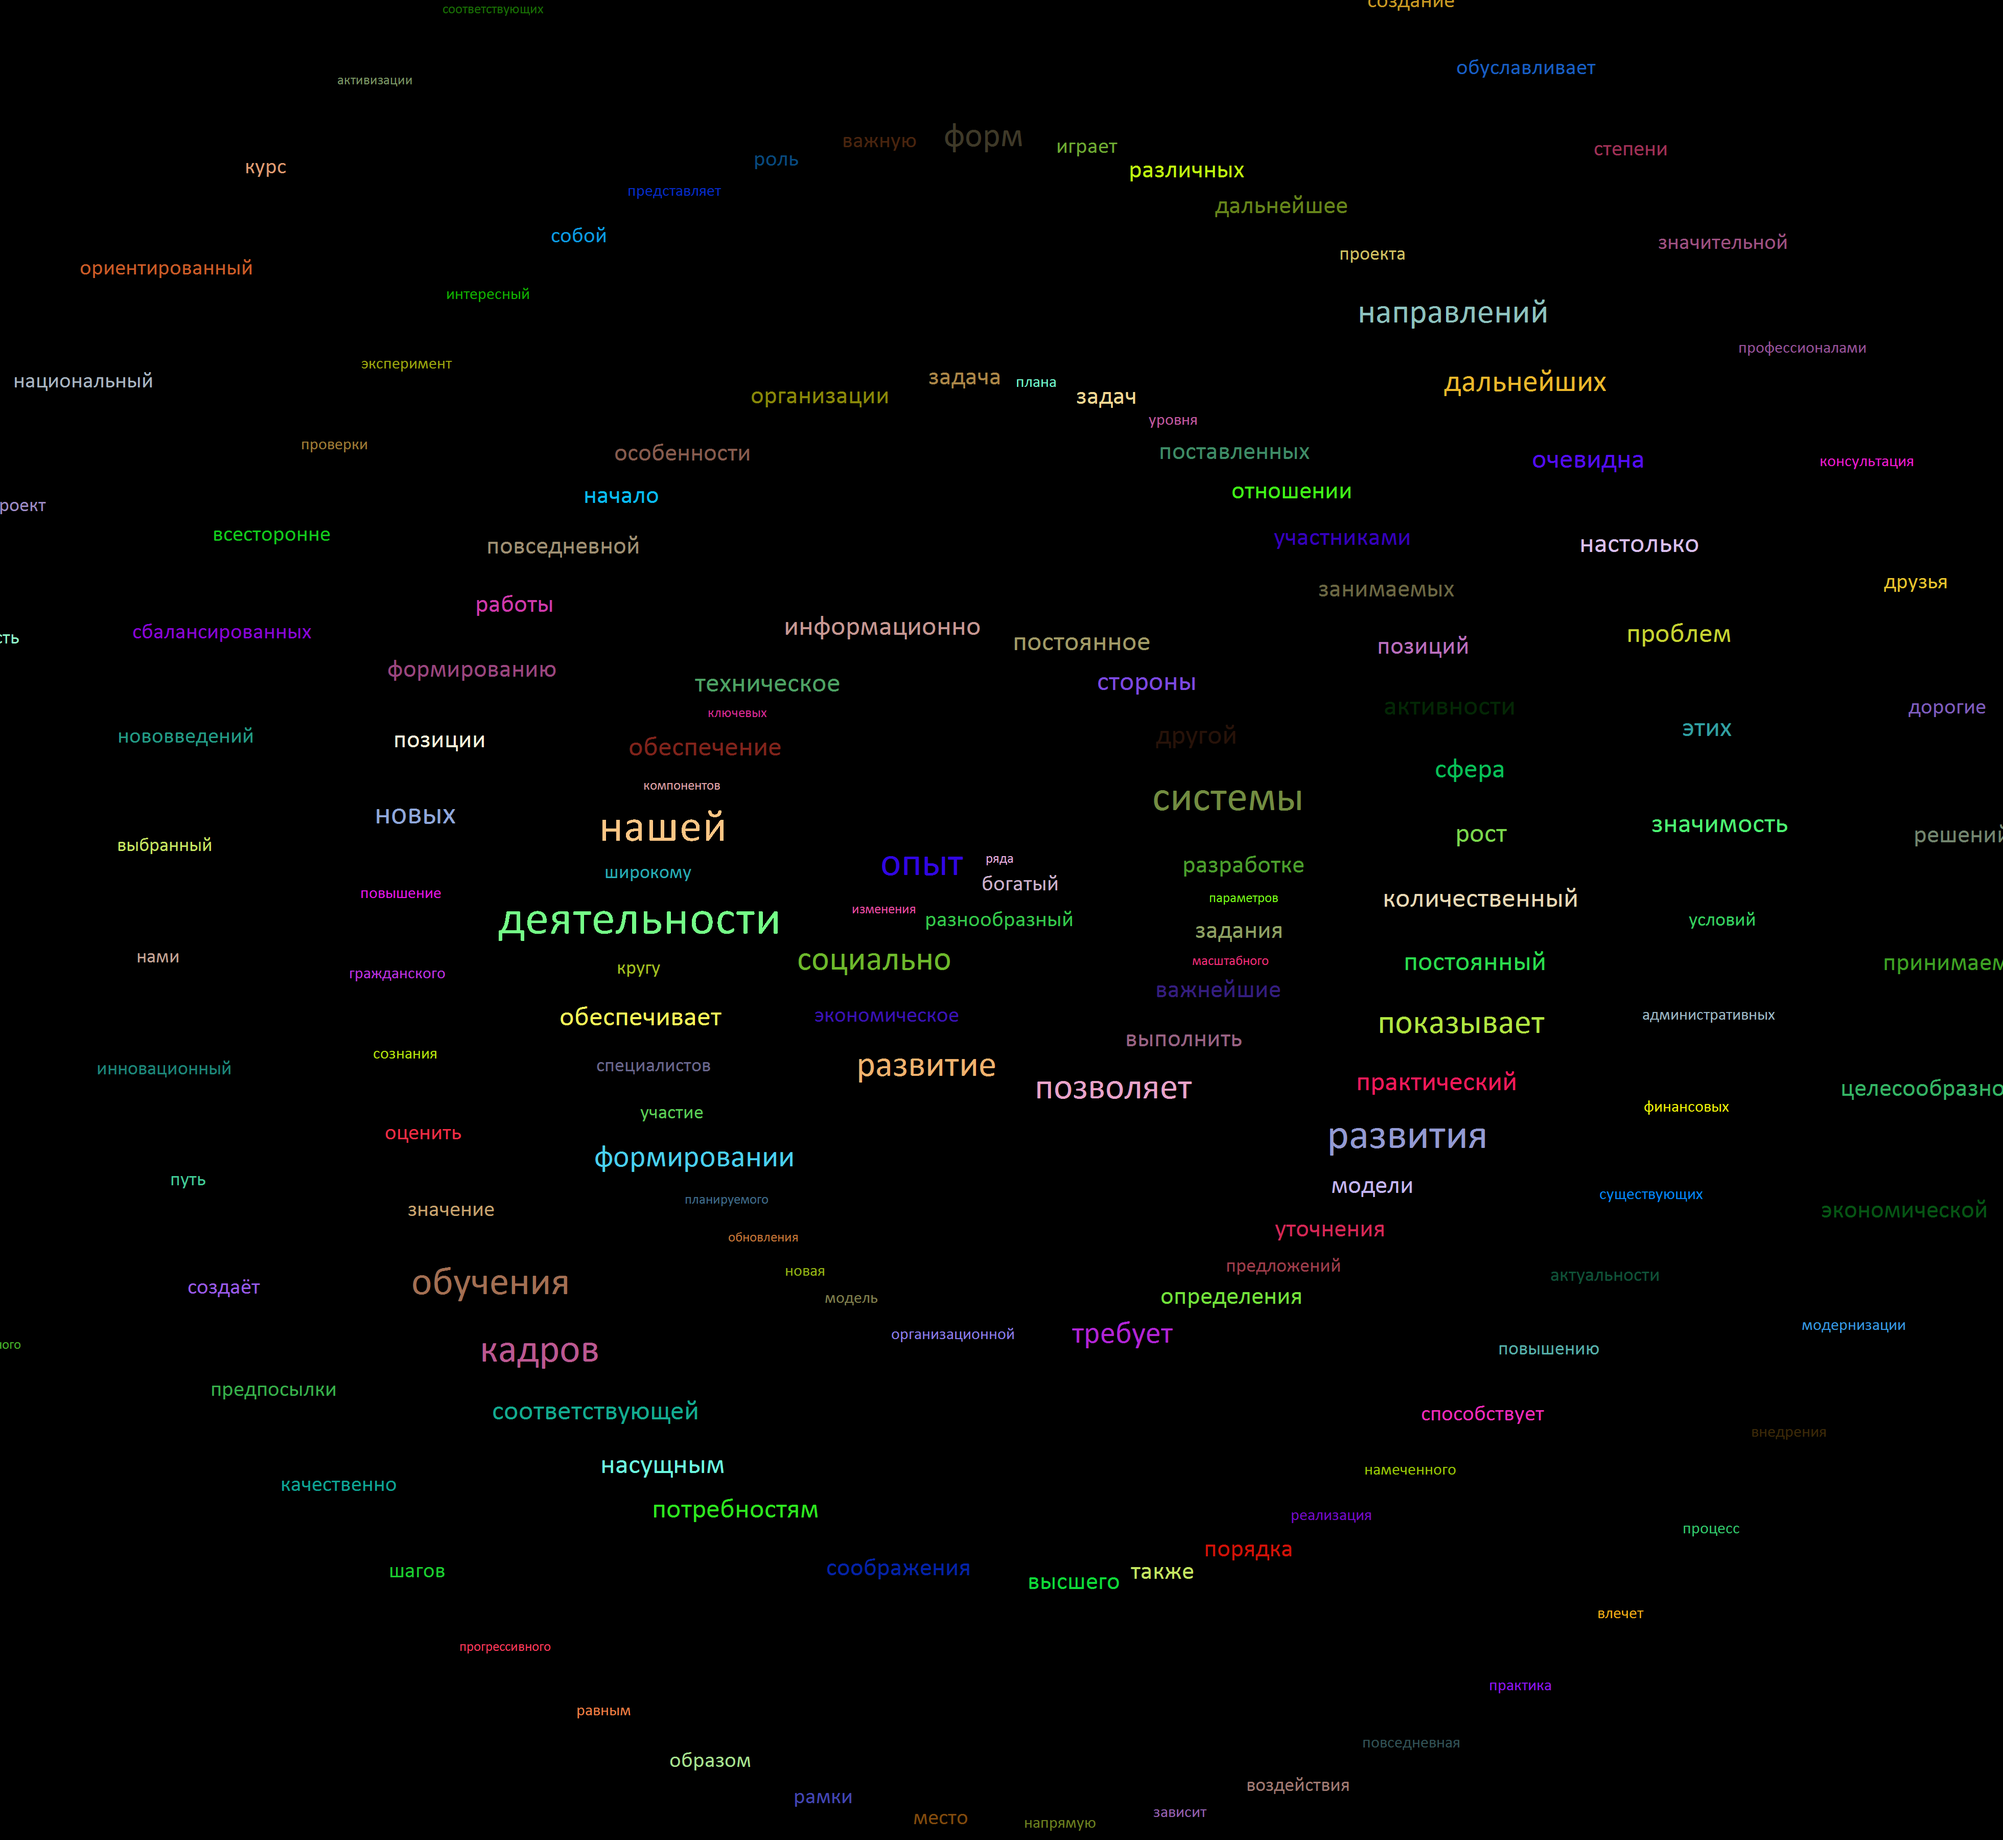
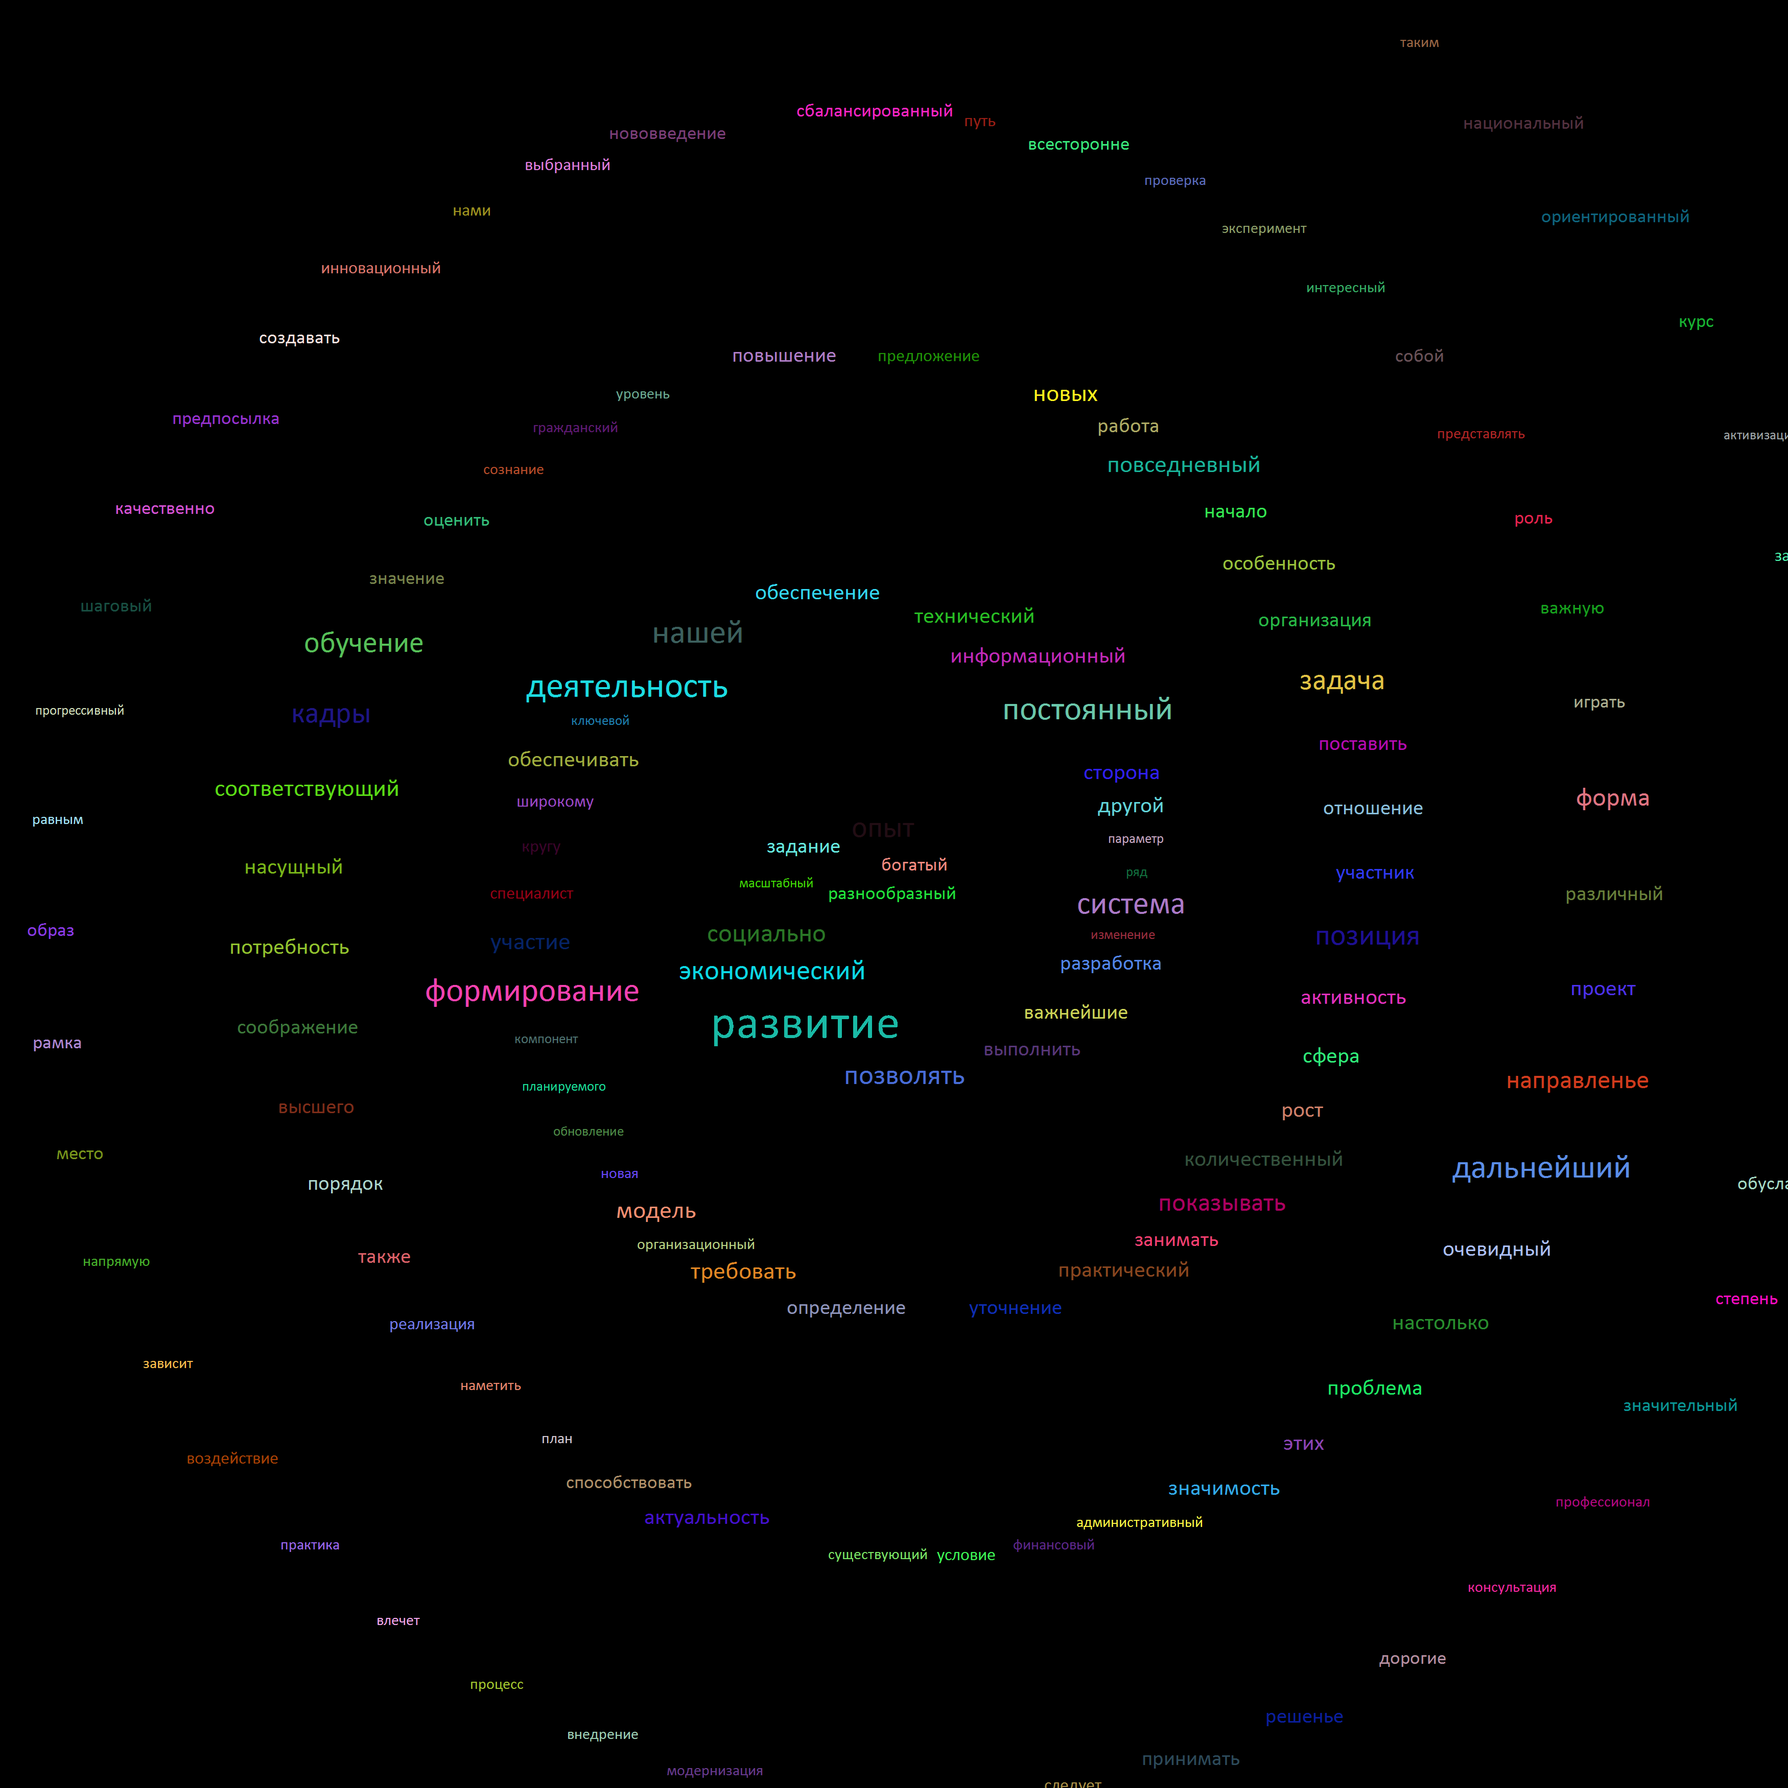
Add words stem

diff --git a/TagCloud/Program.cs b/TagCloud/Program.cs
@@ -1,5 +1,8 @@
-using System.Drawing;
+using System;
+using System.Collections.Generic;
+using System.Drawing;
 using Autofac;
+using NHunspell;
 using TagCloud.Apps;
 using TagCloud.CloudLayouter;
 using TagCloud.Configurations;
@@ -48,7 +51,10 @@ namespace TagCloud
             builder.RegisterType<WordsFromTextParser>().As<ITextParser>();
             builder.RegisterType<BoringWordsFilter>().As<IFilter>();
             builder.RegisterType<TextFilter>().As<ITextFilter>();
-            builder.Register(_ => new WordConverter().Using(s => s.ToLower())).As<IWordConverter>();
+            builder.RegisterType<ToLowerConverter>().As<IConverter>();
+            builder.RegisterType<Stemer>().As<IConverter>();
+            builder.RegisterType<TextFilter>().As<ITextFilter>();
+            builder.RegisterType<ConvertersPool>().As<IConvertersPool>();
             builder.RegisterType<FontSizeByCountCalculator>().AsSelf();
         }
 

diff --git a/TagCloud/TextHandlers/Converters/ConvertersPool.cs b/TagCloud/TextHandlers/Converters/ConvertersPool.cs
@@ -4,16 +4,20 @@ using System.Linq;
 
 namespace TagCloud.TextHandlers.Converters
 {
-    public class WordConverter : IWordConverter
+    public class ConvertersPool : IConvertersPool
     {
         private readonly List<Func<string, string>> converters;
 
-        public WordConverter()
+        public ConvertersPool(IConverter[] converters)
         {
-            converters = new List<Func<string, string>>();
+            this.converters = new List<Func<string, string>>();
+            foreach (var converter in converters)
+            {
+                this.converters.Add(converter.Convert);
+            }
         }
 
-        public WordConverter Using(Func<string, string> converter)
+        public ConvertersPool Using(Func<string, string> converter)
         {
             converters.Add(converter);
             return this;

diff --git a/TagCloud/TextHandlers/WordsReader.cs b/TagCloud/TextHandlers/WordsReader.cs
@@ -8,10 +8,10 @@ namespace TagCloud.TextHandlers
     public class WordsReader : IReader
     {
         private readonly ITextParser parser;
-        private readonly IWordConverter converter;
+        private readonly IConvertersPool converter;
         private readonly ITextFilter filter;
 
-        public WordsReader(ITextParser parser, IWordConverter converter, ITextFilter filter)
+        public WordsReader(ITextParser parser, IConvertersPool converter, ITextFilter filter)
         {
             this.parser = parser;
             this.converter = converter;

diff --git a/TagCloud/TextHandlers/Converters/SuffixTrimmer.cs b/TagCloud/TextHandlers/Converters/SuffixTrimmer.cs
@@ -1,16 +1,9 @@
 using System;
-using System.Collections.Generic;
-using System.Linq;
 
 namespace TagCloud.TextHandlers.Converters
 {
-    public class SuffixTrimmer : IWordConverter
+    public class SuffixTrimmer : IConverter
     {
-        public IEnumerable<string> Convert(IEnumerable<string> words)
-        {
-            return words.Select(Convert);
-        }
-
         public string Convert(string word)
         {
             var apostropheLocation = word.IndexOf('\'');

diff --git a/TagCloud/Tests/WordConverterTests.cs b/TagCloud/Tests/WordConverterTests.cs
@@ -1,4 +1,5 @@
-using FluentAssertions;
+using System;
+using FluentAssertions;
 using NUnit.Framework;
 using TagCloud.TextHandlers.Converters;
 
@@ -10,7 +11,7 @@ namespace TagCloud.Tests
         [Test]
         public void Convert_ShouldConvertWord()
         {
-            var sut = new WordConverter()
+            var sut = new ConvertersPool(Array.Empty<IConverter>())
                 .Using(s => s.ToLower())
                 .Using(s => s.Substring(1));
 

diff --git a/TagCloud/TextHandlers/Converters/Stemer.cs b/TagCloud/TextHandlers/Converters/Stemer.cs
@@ -1,0 +1,17 @@
+using System;
+using System.Linq;
+using NHunspell;
+using TagCloud.TextHandlers.Filters;
+
+namespace TagCloud.TextHandlers.Converters
+{
+    public class Stemer : IConverter
+    {
+        private readonly Hunspell hunspell = new("ru_ru.aff", "ru_ru.dic");
+
+        public string Convert(string original)
+        {
+            return hunspell.Stem(original).FirstOrDefault() ?? original;
+        }
+    }
+}

diff --git a/TagCloud/TextHandlers/Converters/ToLowerConverter.cs b/TagCloud/TextHandlers/Converters/ToLowerConverter.cs
@@ -1,0 +1,10 @@
+namespace TagCloud.TextHandlers.Converters
+{
+    public class ToLowerConverter : IConverter
+    {
+        public string Convert(string word)
+        {
+            return word.ToLower();
+        }
+    }
+}

diff --git a/TagCloud/TextHandlers/Converters/IConvertersPool.cs b/TagCloud/TextHandlers/Converters/IConvertersPool.cs
@@ -2,7 +2,7 @@
 
 namespace TagCloud.TextHandlers.Converters
 {
-    public interface IWordConverter
+    public interface IConvertersPool
     {
         IEnumerable<string> Convert(IEnumerable<string> words);
     }

diff --git a/TagCloud/TextHandlers/Converters/IConverter.cs b/TagCloud/TextHandlers/Converters/IConverter.cs
@@ -1,0 +1,9 @@
+using System.Collections.Generic;
+
+namespace TagCloud.TextHandlers.Converters
+{
+    public interface IConverter
+    {
+       string Convert(string word);
+    }
+}
